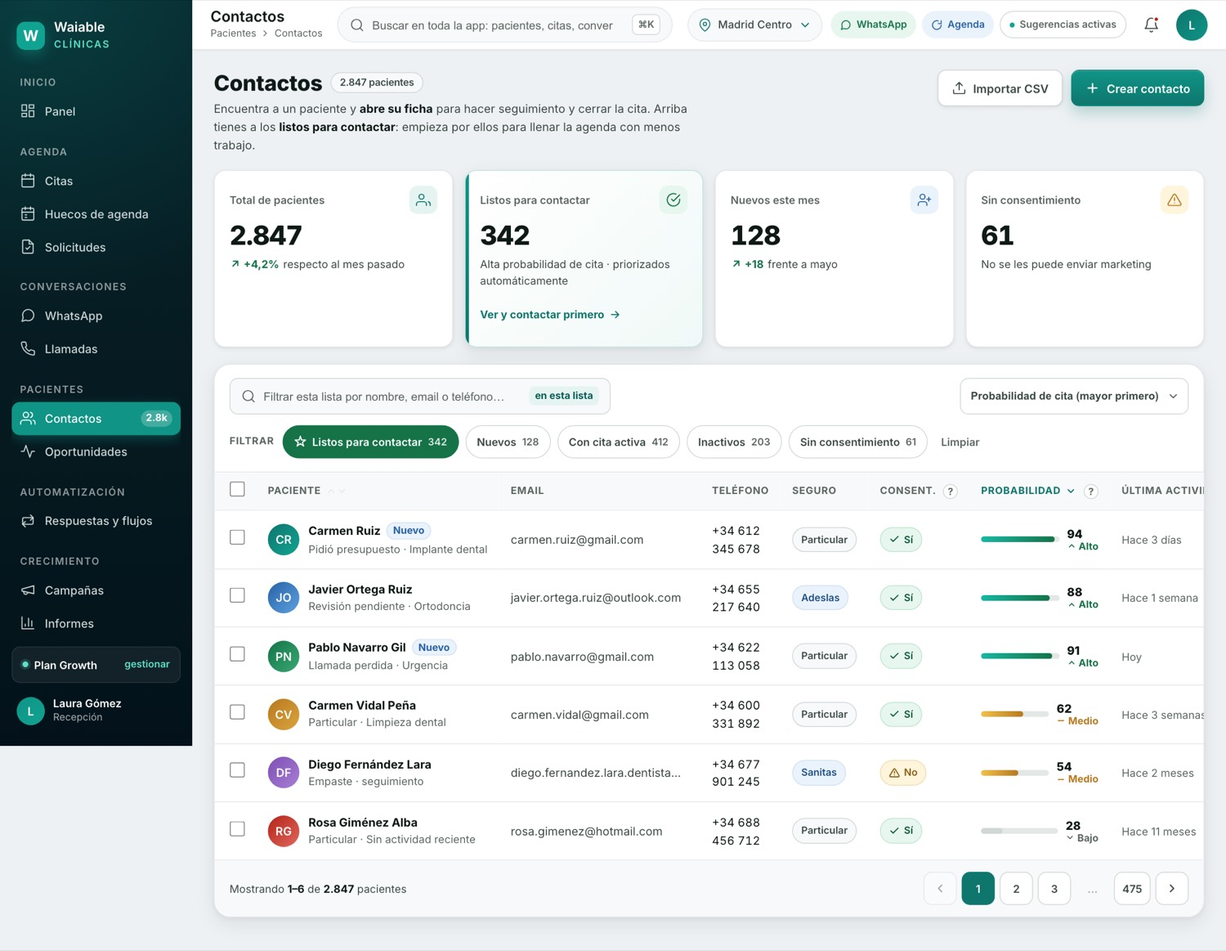
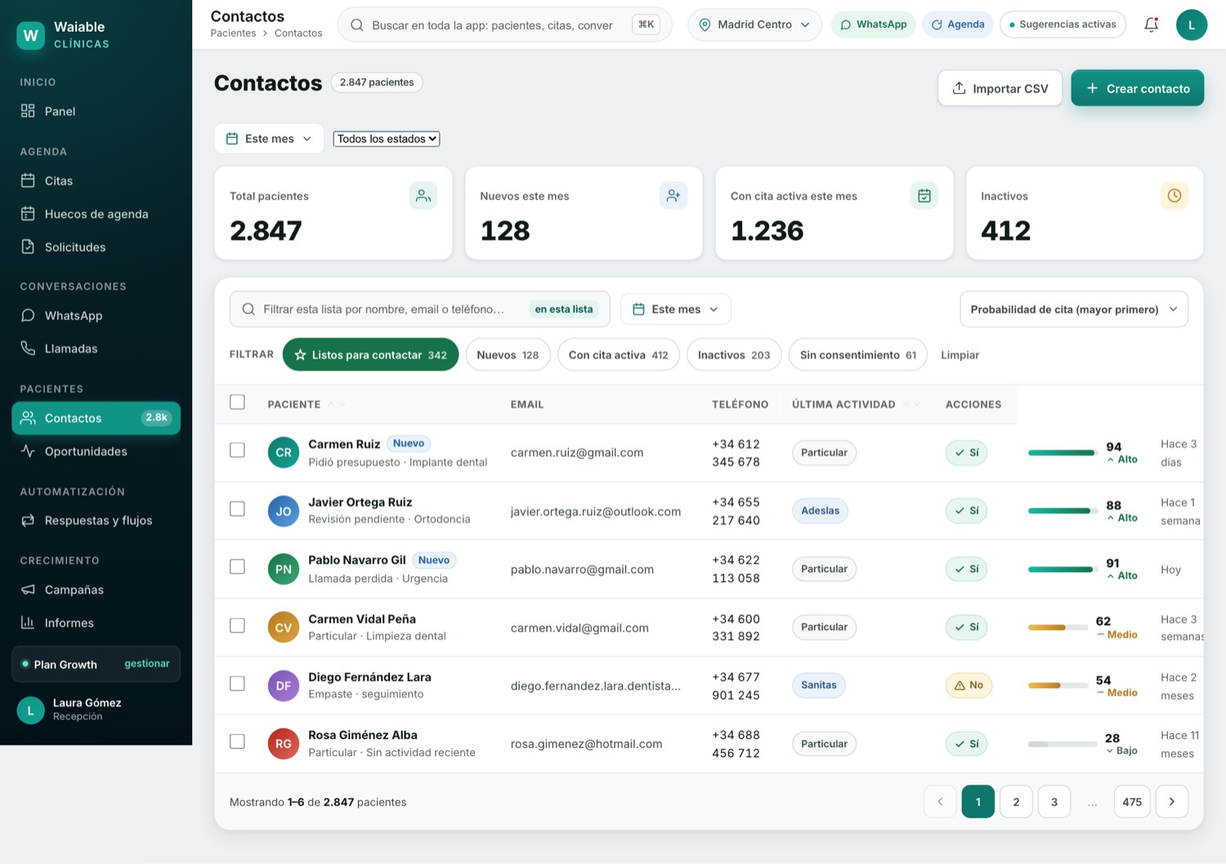
Contactos: KPIs mas pequenos y solo 4 (Total pacientes/Nuevos este mes/Con cita activa este mes/Inactivos); boton calendario de periodo (Este mes por defecto) arriba y en la tabla sincronizados; quitar subtitulo 'Encuentra a un paciente...'; tabla con los mismos filtros (estado+periodo) y sin column

diff --git a/crm/contactos.html b/crm/contactos.html
@@ -451,6 +451,23 @@ tbody tr.sel{background:var(--primary-soft)}
   .head-actions .btn{flex:1;justify-content:center}
   .topbar{padding:0 14px;gap:10px}
 }
+
+/* ===== ajustes contactos: stats más pequeñas, filtro periodo, editar ===== */
+.cfilters{display:flex;align-items:center;gap:10px;flex-wrap:wrap;margin-bottom:14px}
+.period-pick{position:relative}
+.period-btn{display:inline-flex;align-items:center;gap:8px;height:38px;padding:0 13px;border:1px solid var(--line);border-radius:10px;background:var(--surface);font-size:13.5px;font-weight:600;color:var(--text-2);cursor:pointer;font-family:inherit}
+.period-btn:hover{border-color:var(--line-strong);color:var(--text)}
+.period-btn>svg:first-child{width:16px;height:16px;color:var(--primary)}
+.period-btn>svg:last-child{width:15px;height:15px}
+.period-menu{position:absolute;top:44px;left:0;z-index:40;min-width:200px;background:var(--surface);border:1px solid var(--line);border-radius:11px;box-shadow:var(--shadow);padding:6px;display:none}
+.period-menu.open{display:block}
+.period-menu button{display:block;width:100%;text-align:left;height:34px;padding:0 11px;border:none;background:transparent;border-radius:8px;font-size:13.5px;font-family:inherit;color:var(--text-2);cursor:pointer}
+.period-menu button:hover{background:var(--canvas)}
+.period-menu button.active{background:var(--primary-50);color:var(--primary);font-weight:700}
+.r-edit{display:inline-flex;align-items:center;gap:5px;font-size:12.5px;font-weight:700;color:var(--text-2);text-decoration:none;white-space:nowrap;margin-right:14px}
+.r-edit svg{width:14px;height:14px}
+.r-edit:hover{color:var(--primary)}
+
 </style>
 </head>
 <body>
@@ -617,7 +634,7 @@ tbody tr.sel{background:var(--primary-soft)}
       <div class="page-head">
         <div>
           <h1 class="page-h1">Contactos <span class="badge b-mut" style="padding:4px 10px">2.847 pacientes</span></h1>
-          <p class="page-lead">Encuentra a un paciente y <b>abre su ficha</b> para hacer seguimiento y cerrar la cita. Arriba tienes a los <b>listos para contactar</b>: empieza por ellos para llenar la agenda con menos trabajo.</p>
+          
         </div>
         <div class="head-actions">
           <button class="btn btn-secondary" type="button" onclick="toast('Importación CSV iniciada','info')">
@@ -632,43 +649,39 @@ tbody tr.sel{background:var(--primary-soft)}
       </div>
 
       <!-- SUMMARY -->
-      <section class="summary" aria-label="Resumen de pacientes">
+      <section class="cfilters" aria-label="Filtros de pacientes">
+        <div class="period-pick"><button class="period-btn" type="button" onclick="togglePeriod(this)" aria-label="Filtrar por fecha"><svg viewBox="0 0 24 24" fill="none" stroke="currentColor" stroke-width="2" stroke-linecap="round" stroke-linejoin="round"><rect x="3" y="4" width="18" height="18" rx="2"/><path d="M16 2v4M8 2v4M3 10h18"/></svg><span class="period-label">Este mes</span><svg viewBox="0 0 24 24" fill="none" stroke="currentColor" stroke-width="2" stroke-linecap="round" stroke-linejoin="round"><path d="m6 9 6 6 6-6"/></svg></button><div class="period-menu"><button type="button" data-p="Hoy">Hoy</button><button type="button" data-p="Esta semana">Esta semana</button><button type="button" data-p="Este mes" class="active">Este mes</button><button type="button" data-p="Mes pasado">Mes pasado</button><button type="button" data-p="Este trimestre">Este trimestre</button><button type="button" data-p="Este año">Este año</button><button type="button" data-p="Personalizado…">Personalizado…</button></div></div>
+        <select class="tb-filter f-estado" onchange="syncEstado(this)" aria-label="Filtrar por estado"><option value="">Todos los estados</option><option value="activo">Con cita activa</option><option value="nuevo">Nuevos</option><option value="inactivo">Inactivos</option></select>
+      </section>
+
+            <section class="summary" aria-label="Resumen de pacientes">
         <div class="stat">
           <div class="stat-top">
-            <span class="stat-label">Total de pacientes</span>
+            <span class="stat-label">Total pacientes</span>
             <span class="stat-ico ico-teal"><svg viewBox="0 0 24 24" fill="none" stroke="currentColor" stroke-width="1.75" stroke-linecap="round" stroke-linejoin="round"><path d="M17 21v-2a4 4 0 0 0-4-4H5a4 4 0 0 0-4 4v2"/><circle cx="9" cy="7" r="4"/><path d="M23 21v-2a4 4 0 0 0-3-3.87"/></svg></span>
           </div>
           <div class="stat-num tnum">2.847</div>
-          <div class="stat-foot"><span class="trend up"><svg viewBox="0 0 24 24" fill="none" stroke="currentColor" stroke-width="2.5" stroke-linecap="round" stroke-linejoin="round"><path d="M7 17L17 7M17 7H8M17 7v9"/></svg>+4,2%</span>respecto al mes pasado</div>
         </div>
-
-        <div class="stat feature">
-          <div class="stat-top">
-            <span class="stat-label">Listos para contactar</span>
-            <span class="stat-ico ico-ok"><svg viewBox="0 0 24 24" fill="none" stroke="currentColor" stroke-width="1.75" stroke-linecap="round" stroke-linejoin="round"><path d="M22 11.08V12a10 10 0 1 1-5.93-9.14"/><path d="m9 11 3 3L22 4"/></svg></span>
-          </div>
-          <div class="stat-num tnum">342</div>
-          <div class="stat-foot">Alta probabilidad de cita · priorizados automáticamente</div>
-          <div class="stat-act"><a class="link-act" href="#" onclick="filterScoreHigh();return false;">Ver y contactar primero
-            <svg viewBox="0 0 24 24" fill="none" stroke="currentColor" stroke-width="2.2" stroke-linecap="round" stroke-linejoin="round"><path d="M5 12h14M13 6l6 6-6 6"/></svg></a></div>
-        </div>
-
         <div class="stat">
           <div class="stat-top">
             <span class="stat-label">Nuevos este mes</span>
             <span class="stat-ico ico-info"><svg viewBox="0 0 24 24" fill="none" stroke="currentColor" stroke-width="1.75" stroke-linecap="round" stroke-linejoin="round"><path d="M16 21v-2a4 4 0 0 0-4-4H6a4 4 0 0 0-4 4v2"/><circle cx="9" cy="7" r="4"/><path d="M19 8v6M22 11h-6"/></svg></span>
           </div>
           <div class="stat-num tnum">128</div>
-          <div class="stat-foot"><span class="trend up"><svg viewBox="0 0 24 24" fill="none" stroke="currentColor" stroke-width="2.5" stroke-linecap="round" stroke-linejoin="round"><path d="M7 17L17 7M17 7H8M17 7v9"/></svg>+18</span>frente a mayo</div>
         </div>
-
         <div class="stat">
           <div class="stat-top">
-            <span class="stat-label">Sin consentimiento</span>
-            <span class="stat-ico ico-warn"><svg viewBox="0 0 24 24" fill="none" stroke="currentColor" stroke-width="1.75" stroke-linecap="round" stroke-linejoin="round"><path d="M10.29 3.86 1.82 18a2 2 0 0 0 1.71 3h16.94a2 2 0 0 0 1.71-3L13.71 3.86a2 2 0 0 0-3.42 0z"/><path d="M12 9v4M12 17h.01"/></svg></span>
+            <span class="stat-label">Con cita activa este mes</span>
+            <span class="stat-ico ico-ok"><svg viewBox="0 0 24 24" fill="none" stroke="currentColor" stroke-width="1.75" stroke-linecap="round" stroke-linejoin="round"><rect x="3" y="4" width="18" height="18" rx="2"/><path d="M16 2v4M8 2v4M3 10h18M9 16l2 2 4-4"/></svg></span>
           </div>
-          <div class="stat-num tnum">61</div>
-          <div class="stat-foot">No se les puede enviar marketing</div>
+          <div class="stat-num tnum">1.236</div>
+        </div>
+        <div class="stat">
+          <div class="stat-top">
+            <span class="stat-label">Inactivos</span>
+            <span class="stat-ico ico-warn"><svg viewBox="0 0 24 24" fill="none" stroke="currentColor" stroke-width="1.75" stroke-linecap="round" stroke-linejoin="round"><circle cx="12" cy="12" r="10"/><path d="M12 6v6l4 2"/></svg></span>
+          </div>
+          <div class="stat-num tnum">412</div>
         </div>
       </section>
 
@@ -686,7 +699,8 @@ tbody tr.sel{background:var(--primary-soft)}
               <button class="clear-x" type="button" aria-label="Borrar filtro" onclick="clearTblSearch()"><svg width="15" height="15" viewBox="0 0 24 24" fill="none" stroke="currentColor" stroke-width="2.2" stroke-linecap="round" stroke-linejoin="round"><path d="M18 6 6 18M6 6l12 12"/></svg></button>
             </div>
 
-            <div class="tb-spacer"></div>
+            <div class="period-pick"><button class="period-btn" type="button" onclick="togglePeriod(this)" aria-label="Filtrar por fecha"><svg viewBox="0 0 24 24" fill="none" stroke="currentColor" stroke-width="2" stroke-linecap="round" stroke-linejoin="round"><rect x="3" y="4" width="18" height="18" rx="2"/><path d="M16 2v4M8 2v4M3 10h18"/></svg><span class="period-label">Este mes</span><svg viewBox="0 0 24 24" fill="none" stroke="currentColor" stroke-width="2" stroke-linecap="round" stroke-linejoin="round"><path d="m6 9 6 6 6-6"/></svg></button><div class="period-menu"><button type="button" data-p="Hoy">Hoy</button><button type="button" data-p="Esta semana">Esta semana</button><button type="button" data-p="Este mes" class="active">Este mes</button><button type="button" data-p="Mes pasado">Mes pasado</button><button type="button" data-p="Este trimestre">Este trimestre</button><button type="button" data-p="Este año">Este año</button><button type="button" data-p="Personalizado…">Personalizado…</button></div></div>
+        <div class="tb-spacer"></div>
 
             <div class="select-wrap">
               <label for="sortSel" class="sr-only">Ordenar por</label>
@@ -741,23 +755,6 @@ tbody tr.sel{background:var(--primary-soft)}
                 </th>
                 <th scope="col">Email</th>
                 <th scope="col">Teléfono</th>
-                <th scope="col">Seguro</th>
-                <th scope="col">
-                  Consent.
-                  <span class="help-i">
-                    <button class="help-btn" type="button" aria-label="Qué es el consentimiento" aria-describedby="tip-consent">?</button>
-                    <span class="tip right" id="tip-consent" role="tooltip">El paciente ha dado <b>opt-in</b> (consentimiento RGPD) para recibir comunicaciones por WhatsApp y email. Sin él no se le puede enviar marketing.</span>
-                  </span>
-                </th>
-                <th scope="col" aria-sort="descending">
-                  <button class="th-sort" type="button" onclick="sortBy(this,'score')">Probabilidad
-                    <span class="arr"><svg class="arr-up" viewBox="0 0 24 24" fill="none" stroke="currentColor" stroke-width="2.4" stroke-linecap="round" stroke-linejoin="round" style="margin-bottom:-2px"><path d="m18 15-6-6-6 6"/></svg><svg class="arr-dn" viewBox="0 0 24 24" fill="none" stroke="currentColor" stroke-width="2.4" stroke-linecap="round" stroke-linejoin="round"><path d="m6 9 6 6 6-6"/></svg><svg class="arr-asc" viewBox="0 0 24 24" fill="none" stroke="currentColor" stroke-width="2.6" stroke-linecap="round" stroke-linejoin="round"><path d="m18 15-6-6-6 6"/></svg><svg class="arr-desc" viewBox="0 0 24 24" fill="none" stroke="currentColor" stroke-width="2.6" stroke-linecap="round" stroke-linejoin="round"><path d="m6 9 6 6 6-6"/></svg></span>
-                  </button>
-                  <span class="help-i">
-                    <button class="help-btn" type="button" aria-label="Qué es la probabilidad de cita" aria-describedby="tip-score">?</button>
-                    <span class="tip right" id="tip-score" role="tooltip">Probabilidad estimada (0–100) de que el paciente reserve o vuelva pronto. La calcula la automatización a partir de su actividad; cuanto más alta, más conviene contactarle antes.</span>
-                  </span>
-                </th>
                 <th scope="col" aria-sort="none">
                   <button class="th-sort" type="button" onclick="sortBy(this,'visit')">Última actividad
                     <span class="arr"><svg class="arr-up" viewBox="0 0 24 24" fill="none" stroke="currentColor" stroke-width="2.4" stroke-linecap="round" stroke-linejoin="round" style="margin-bottom:-2px"><path d="m18 15-6-6-6 6"/></svg><svg class="arr-dn" viewBox="0 0 24 24" fill="none" stroke="currentColor" stroke-width="2.4" stroke-linecap="round" stroke-linejoin="round"><path d="m6 9 6 6 6-6"/></svg><svg class="arr-asc" viewBox="0 0 24 24" fill="none" stroke="currentColor" stroke-width="2.6" stroke-linecap="round" stroke-linejoin="round"><path d="m18 15-6-6-6 6"/></svg><svg class="arr-desc" viewBox="0 0 24 24" fill="none" stroke="currentColor" stroke-width="2.6" stroke-linecap="round" stroke-linejoin="round"><path d="m6 9 6 6 6-6"/></svg></span>
@@ -807,7 +804,7 @@ tbody tr.sel{background:var(--primary-soft)}
                   <div class="row-act">
                     <button class="r-btn wa" type="button" aria-label="Enviar WhatsApp a Carmen Ruiz" onclick="rowContact(event,'WhatsApp','Carmen Ruiz')"><svg viewBox="0 0 24 24" fill="none" stroke="currentColor" stroke-width="1.9" stroke-linecap="round" stroke-linejoin="round"><path d="M21 11.5a8.38 8.38 0 0 1-.9 3.8 8.5 8.5 0 0 1-7.6 4.7 8.38 8.38 0 0 1-3.8-.9L3 21l1.9-5.7a8.38 8.38 0 0 1-.9-3.8 8.5 8.5 0 0 1 4.7-7.6 8.38 8.38 0 0 1 3.8-.9h.5a8.48 8.48 0 0 1 8 8v.5z"/></svg></button>
                     <button class="r-btn" type="button" aria-label="Llamar a Carmen Ruiz" onclick="rowContact(event,'Llamada','Carmen Ruiz')"><svg viewBox="0 0 24 24" fill="none" stroke="currentColor" stroke-width="1.9" stroke-linecap="round" stroke-linejoin="round"><path d="M22 16.92v3a2 2 0 0 1-2.18 2 19.79 19.79 0 0 1-8.63-3.07 19.5 19.5 0 0 1-6-6 19.79 19.79 0 0 1-3.07-8.67A2 2 0 0 1 4.11 2h3a2 2 0 0 1 2 1.72c.13.96.36 1.9.7 2.81a2 2 0 0 1-.45 2.11L8.09 9.91a16 16 0 0 0 6 6l1.27-1.27a2 2 0 0 1 2.11-.45c.91.34 1.85.57 2.81.7A2 2 0 0 1 22 16.92z"/></svg></button>
-                    <a class="r-open" href="ficha-contacto.html" onclick="event.stopPropagation()">Abrir ficha<svg viewBox="0 0 24 24" fill="none" stroke="currentColor" stroke-width="2.4" stroke-linecap="round" stroke-linejoin="round"><path d="M5 12h14M13 6l6 6-6 6"/></svg></a>
+                    <a class="r-edit" href="ficha-contacto.html" onclick="event.stopPropagation()"><svg viewBox="0 0 24 24" fill="none" stroke="currentColor" stroke-width="2.2" stroke-linecap="round" stroke-linejoin="round"><path d="M12 20h9"/><path d="M16.5 3.5a2.12 2.12 0 0 1 3 3L7 19l-4 1 1-4z"/></svg>Editar contacto</a><a class="r-open" href="ficha-contacto.html" onclick="event.stopPropagation()">Abrir ficha<svg viewBox="0 0 24 24" fill="none" stroke="currentColor" stroke-width="2.4" stroke-linecap="round" stroke-linejoin="round"><path d="M5 12h14M13 6l6 6-6 6"/></svg></a>
                   </div>
                 </td>
               </tr>
@@ -839,7 +836,7 @@ tbody tr.sel{background:var(--primary-soft)}
                   <div class="row-act">
                     <button class="r-btn wa" type="button" aria-label="Enviar WhatsApp a Javier Ortega Ruiz" onclick="rowContact(event,'WhatsApp','Javier Ortega')"><svg viewBox="0 0 24 24" fill="none" stroke="currentColor" stroke-width="1.9" stroke-linecap="round" stroke-linejoin="round"><path d="M21 11.5a8.38 8.38 0 0 1-.9 3.8 8.5 8.5 0 0 1-7.6 4.7 8.38 8.38 0 0 1-3.8-.9L3 21l1.9-5.7a8.38 8.38 0 0 1-.9-3.8 8.5 8.5 0 0 1 4.7-7.6 8.38 8.38 0 0 1 3.8-.9h.5a8.48 8.48 0 0 1 8 8v.5z"/></svg></button>
                     <button class="r-btn" type="button" aria-label="Llamar a Javier Ortega Ruiz" onclick="rowContact(event,'Llamada','Javier Ortega')"><svg viewBox="0 0 24 24" fill="none" stroke="currentColor" stroke-width="1.9" stroke-linecap="round" stroke-linejoin="round"><path d="M22 16.92v3a2 2 0 0 1-2.18 2 19.79 19.79 0 0 1-8.63-3.07 19.5 19.5 0 0 1-6-6 19.79 19.79 0 0 1-3.07-8.67A2 2 0 0 1 4.11 2h3a2 2 0 0 1 2 1.72c.13.96.36 1.9.7 2.81a2 2 0 0 1-.45 2.11L8.09 9.91a16 16 0 0 0 6 6l1.27-1.27a2 2 0 0 1 2.11-.45c.91.34 1.85.57 2.81.7A2 2 0 0 1 22 16.92z"/></svg></button>
-                    <a class="r-open" href="ficha-contacto.html" onclick="event.stopPropagation()">Abrir ficha<svg viewBox="0 0 24 24" fill="none" stroke="currentColor" stroke-width="2.4" stroke-linecap="round" stroke-linejoin="round"><path d="M5 12h14M13 6l6 6-6 6"/></svg></a>
+                    <a class="r-edit" href="ficha-contacto.html" onclick="event.stopPropagation()"><svg viewBox="0 0 24 24" fill="none" stroke="currentColor" stroke-width="2.2" stroke-linecap="round" stroke-linejoin="round"><path d="M12 20h9"/><path d="M16.5 3.5a2.12 2.12 0 0 1 3 3L7 19l-4 1 1-4z"/></svg>Editar contacto</a><a class="r-open" href="ficha-contacto.html" onclick="event.stopPropagation()">Abrir ficha<svg viewBox="0 0 24 24" fill="none" stroke="currentColor" stroke-width="2.4" stroke-linecap="round" stroke-linejoin="round"><path d="M5 12h14M13 6l6 6-6 6"/></svg></a>
                   </div>
                 </td>
               </tr>
@@ -871,7 +868,7 @@ tbody tr.sel{background:var(--primary-soft)}
                   <div class="row-act">
                     <button class="r-btn wa" type="button" aria-label="Enviar WhatsApp a Pablo Navarro Gil" onclick="rowContact(event,'WhatsApp','Pablo Navarro')"><svg viewBox="0 0 24 24" fill="none" stroke="currentColor" stroke-width="1.9" stroke-linecap="round" stroke-linejoin="round"><path d="M21 11.5a8.38 8.38 0 0 1-.9 3.8 8.5 8.5 0 0 1-7.6 4.7 8.38 8.38 0 0 1-3.8-.9L3 21l1.9-5.7a8.38 8.38 0 0 1-.9-3.8 8.5 8.5 0 0 1 4.7-7.6 8.38 8.38 0 0 1 3.8-.9h.5a8.48 8.48 0 0 1 8 8v.5z"/></svg></button>
                     <button class="r-btn" type="button" aria-label="Llamar a Pablo Navarro Gil" onclick="rowContact(event,'Llamada','Pablo Navarro')"><svg viewBox="0 0 24 24" fill="none" stroke="currentColor" stroke-width="1.9" stroke-linecap="round" stroke-linejoin="round"><path d="M22 16.92v3a2 2 0 0 1-2.18 2 19.79 19.79 0 0 1-8.63-3.07 19.5 19.5 0 0 1-6-6 19.79 19.79 0 0 1-3.07-8.67A2 2 0 0 1 4.11 2h3a2 2 0 0 1 2 1.72c.13.96.36 1.9.7 2.81a2 2 0 0 1-.45 2.11L8.09 9.91a16 16 0 0 0 6 6l1.27-1.27a2 2 0 0 1 2.11-.45c.91.34 1.85.57 2.81.7A2 2 0 0 1 22 16.92z"/></svg></button>
-                    <a class="r-open" href="ficha-contacto.html" onclick="event.stopPropagation()">Abrir ficha<svg viewBox="0 0 24 24" fill="none" stroke="currentColor" stroke-width="2.4" stroke-linecap="round" stroke-linejoin="round"><path d="M5 12h14M13 6l6 6-6 6"/></svg></a>
+                    <a class="r-edit" href="ficha-contacto.html" onclick="event.stopPropagation()"><svg viewBox="0 0 24 24" fill="none" stroke="currentColor" stroke-width="2.2" stroke-linecap="round" stroke-linejoin="round"><path d="M12 20h9"/><path d="M16.5 3.5a2.12 2.12 0 0 1 3 3L7 19l-4 1 1-4z"/></svg>Editar contacto</a><a class="r-open" href="ficha-contacto.html" onclick="event.stopPropagation()">Abrir ficha<svg viewBox="0 0 24 24" fill="none" stroke="currentColor" stroke-width="2.4" stroke-linecap="round" stroke-linejoin="round"><path d="M5 12h14M13 6l6 6-6 6"/></svg></a>
                   </div>
                 </td>
               </tr>
@@ -903,7 +900,7 @@ tbody tr.sel{background:var(--primary-soft)}
                   <div class="row-act">
                     <button class="r-btn wa" type="button" aria-label="Enviar WhatsApp a Carmen Vidal Peña" onclick="rowContact(event,'WhatsApp','Carmen Vidal')"><svg viewBox="0 0 24 24" fill="none" stroke="currentColor" stroke-width="1.9" stroke-linecap="round" stroke-linejoin="round"><path d="M21 11.5a8.38 8.38 0 0 1-.9 3.8 8.5 8.5 0 0 1-7.6 4.7 8.38 8.38 0 0 1-3.8-.9L3 21l1.9-5.7a8.38 8.38 0 0 1-.9-3.8 8.5 8.5 0 0 1 4.7-7.6 8.38 8.38 0 0 1 3.8-.9h.5a8.48 8.48 0 0 1 8 8v.5z"/></svg></button>
                     <button class="r-btn" type="button" aria-label="Llamar a Carmen Vidal Peña" onclick="rowContact(event,'Llamada','Carmen Vidal')"><svg viewBox="0 0 24 24" fill="none" stroke="currentColor" stroke-width="1.9" stroke-linecap="round" stroke-linejoin="round"><path d="M22 16.92v3a2 2 0 0 1-2.18 2 19.79 19.79 0 0 1-8.63-3.07 19.5 19.5 0 0 1-6-6 19.79 19.79 0 0 1-3.07-8.67A2 2 0 0 1 4.11 2h3a2 2 0 0 1 2 1.72c.13.96.36 1.9.7 2.81a2 2 0 0 1-.45 2.11L8.09 9.91a16 16 0 0 0 6 6l1.27-1.27a2 2 0 0 1 2.11-.45c.91.34 1.85.57 2.81.7A2 2 0 0 1 22 16.92z"/></svg></button>
-                    <a class="r-open" href="ficha-contacto.html" onclick="event.stopPropagation()">Abrir ficha<svg viewBox="0 0 24 24" fill="none" stroke="currentColor" stroke-width="2.4" stroke-linecap="round" stroke-linejoin="round"><path d="M5 12h14M13 6l6 6-6 6"/></svg></a>
+                    <a class="r-edit" href="ficha-contacto.html" onclick="event.stopPropagation()"><svg viewBox="0 0 24 24" fill="none" stroke="currentColor" stroke-width="2.2" stroke-linecap="round" stroke-linejoin="round"><path d="M12 20h9"/><path d="M16.5 3.5a2.12 2.12 0 0 1 3 3L7 19l-4 1 1-4z"/></svg>Editar contacto</a><a class="r-open" href="ficha-contacto.html" onclick="event.stopPropagation()">Abrir ficha<svg viewBox="0 0 24 24" fill="none" stroke="currentColor" stroke-width="2.4" stroke-linecap="round" stroke-linejoin="round"><path d="M5 12h14M13 6l6 6-6 6"/></svg></a>
                   </div>
                 </td>
               </tr>
@@ -935,7 +932,7 @@ tbody tr.sel{background:var(--primary-soft)}
                   <div class="row-act">
                     <button class="r-btn wa" type="button" aria-label="Enviar WhatsApp a Diego Fernández Lara" onclick="rowContact(event,'WhatsApp','Diego Fernández')"><svg viewBox="0 0 24 24" fill="none" stroke="currentColor" stroke-width="1.9" stroke-linecap="round" stroke-linejoin="round"><path d="M21 11.5a8.38 8.38 0 0 1-.9 3.8 8.5 8.5 0 0 1-7.6 4.7 8.38 8.38 0 0 1-3.8-.9L3 21l1.9-5.7a8.38 8.38 0 0 1-.9-3.8 8.5 8.5 0 0 1 4.7-7.6 8.38 8.38 0 0 1 3.8-.9h.5a8.48 8.48 0 0 1 8 8v.5z"/></svg></button>
                     <button class="r-btn" type="button" aria-label="Llamar a Diego Fernández Lara" onclick="rowContact(event,'Llamada','Diego Fernández')"><svg viewBox="0 0 24 24" fill="none" stroke="currentColor" stroke-width="1.9" stroke-linecap="round" stroke-linejoin="round"><path d="M22 16.92v3a2 2 0 0 1-2.18 2 19.79 19.79 0 0 1-8.63-3.07 19.5 19.5 0 0 1-6-6 19.79 19.79 0 0 1-3.07-8.67A2 2 0 0 1 4.11 2h3a2 2 0 0 1 2 1.72c.13.96.36 1.9.7 2.81a2 2 0 0 1-.45 2.11L8.09 9.91a16 16 0 0 0 6 6l1.27-1.27a2 2 0 0 1 2.11-.45c.91.34 1.85.57 2.81.7A2 2 0 0 1 22 16.92z"/></svg></button>
-                    <a class="r-open" href="ficha-contacto.html" onclick="event.stopPropagation()">Abrir ficha<svg viewBox="0 0 24 24" fill="none" stroke="currentColor" stroke-width="2.4" stroke-linecap="round" stroke-linejoin="round"><path d="M5 12h14M13 6l6 6-6 6"/></svg></a>
+                    <a class="r-edit" href="ficha-contacto.html" onclick="event.stopPropagation()"><svg viewBox="0 0 24 24" fill="none" stroke="currentColor" stroke-width="2.2" stroke-linecap="round" stroke-linejoin="round"><path d="M12 20h9"/><path d="M16.5 3.5a2.12 2.12 0 0 1 3 3L7 19l-4 1 1-4z"/></svg>Editar contacto</a><a class="r-open" href="ficha-contacto.html" onclick="event.stopPropagation()">Abrir ficha<svg viewBox="0 0 24 24" fill="none" stroke="currentColor" stroke-width="2.4" stroke-linecap="round" stroke-linejoin="round"><path d="M5 12h14M13 6l6 6-6 6"/></svg></a>
                   </div>
                 </td>
               </tr>
@@ -967,7 +964,7 @@ tbody tr.sel{background:var(--primary-soft)}
                   <div class="row-act">
                     <button class="r-btn wa" type="button" aria-label="Enviar WhatsApp a Rosa Giménez Alba" onclick="rowContact(event,'WhatsApp','Rosa Giménez')"><svg viewBox="0 0 24 24" fill="none" stroke="currentColor" stroke-width="1.9" stroke-linecap="round" stroke-linejoin="round"><path d="M21 11.5a8.38 8.38 0 0 1-.9 3.8 8.5 8.5 0 0 1-7.6 4.7 8.38 8.38 0 0 1-3.8-.9L3 21l1.9-5.7a8.38 8.38 0 0 1-.9-3.8 8.5 8.5 0 0 1 4.7-7.6 8.38 8.38 0 0 1 3.8-.9h.5a8.48 8.48 0 0 1 8 8v.5z"/></svg></button>
                     <button class="r-btn" type="button" aria-label="Llamar a Rosa Giménez Alba" onclick="rowContact(event,'Llamada','Rosa Giménez')"><svg viewBox="0 0 24 24" fill="none" stroke="currentColor" stroke-width="1.9" stroke-linecap="round" stroke-linejoin="round"><path d="M22 16.92v3a2 2 0 0 1-2.18 2 19.79 19.79 0 0 1-8.63-3.07 19.5 19.5 0 0 1-6-6 19.79 19.79 0 0 1-3.07-8.67A2 2 0 0 1 4.11 2h3a2 2 0 0 1 2 1.72c.13.96.36 1.9.7 2.81a2 2 0 0 1-.45 2.11L8.09 9.91a16 16 0 0 0 6 6l1.27-1.27a2 2 0 0 1 2.11-.45c.91.34 1.85.57 2.81.7A2 2 0 0 1 22 16.92z"/></svg></button>
-                    <a class="r-open" href="ficha-contacto.html" onclick="event.stopPropagation()">Abrir ficha<svg viewBox="0 0 24 24" fill="none" stroke="currentColor" stroke-width="2.4" stroke-linecap="round" stroke-linejoin="round"><path d="M5 12h14M13 6l6 6-6 6"/></svg></a>
+                    <a class="r-edit" href="ficha-contacto.html" onclick="event.stopPropagation()"><svg viewBox="0 0 24 24" fill="none" stroke="currentColor" stroke-width="2.2" stroke-linecap="round" stroke-linejoin="round"><path d="M12 20h9"/><path d="M16.5 3.5a2.12 2.12 0 0 1 3 3L7 19l-4 1 1-4z"/></svg>Editar contacto</a><a class="r-open" href="ficha-contacto.html" onclick="event.stopPropagation()">Abrir ficha<svg viewBox="0 0 24 24" fill="none" stroke="currentColor" stroke-width="2.4" stroke-linecap="round" stroke-linejoin="round"><path d="M5 12h14M13 6l6 6-6 6"/></svg></a>
                   </div>
                 </td>
               </tr>
@@ -1162,6 +1159,30 @@ document.addEventListener('keydown', function(e){
 /* init */
 refreshBulk();
 showState('data');
+
+/* ===== contactos: filtro de periodo (calendario) + sync de estado ===== */
+window.togglePeriod=function(btn){
+  var menu=btn.parentNode.querySelector('.period-menu');
+  var open=menu.classList.contains('open');
+  document.querySelectorAll('.period-menu.open').forEach(function(m){m.classList.remove('open');});
+  if(!open) menu.classList.add('open');
+};
+window.syncEstado=function(sel){
+  document.querySelectorAll('.f-estado').forEach(function(s){ if(s!==sel) s.value=sel.value; });
+  if(window.toast) toast('Filtro de estado aplicado a la tabla');
+};
+(function(){
+  function setPeriod(label){
+    document.querySelectorAll('.period-pick .period-label').forEach(function(el){el.textContent=label;});
+    document.querySelectorAll('.period-pick .period-menu button').forEach(function(b){b.classList.toggle('active', b.dataset.p===label);});
+    if(window.toast) toast('Mostrando datos de: '+label);
+  }
+  document.querySelectorAll('.period-pick .period-menu button').forEach(function(b){
+    b.addEventListener('click',function(e){ e.stopPropagation(); setPeriod(b.dataset.p); var m=b.closest('.period-menu'); if(m) m.classList.remove('open'); });
+  });
+  document.addEventListener('click',function(e){ if(!e.target.closest('.period-pick')) document.querySelectorAll('.period-menu.open').forEach(function(m){m.classList.remove('open');}); });
+})();
+
 </script>
 </body>
 </html>
